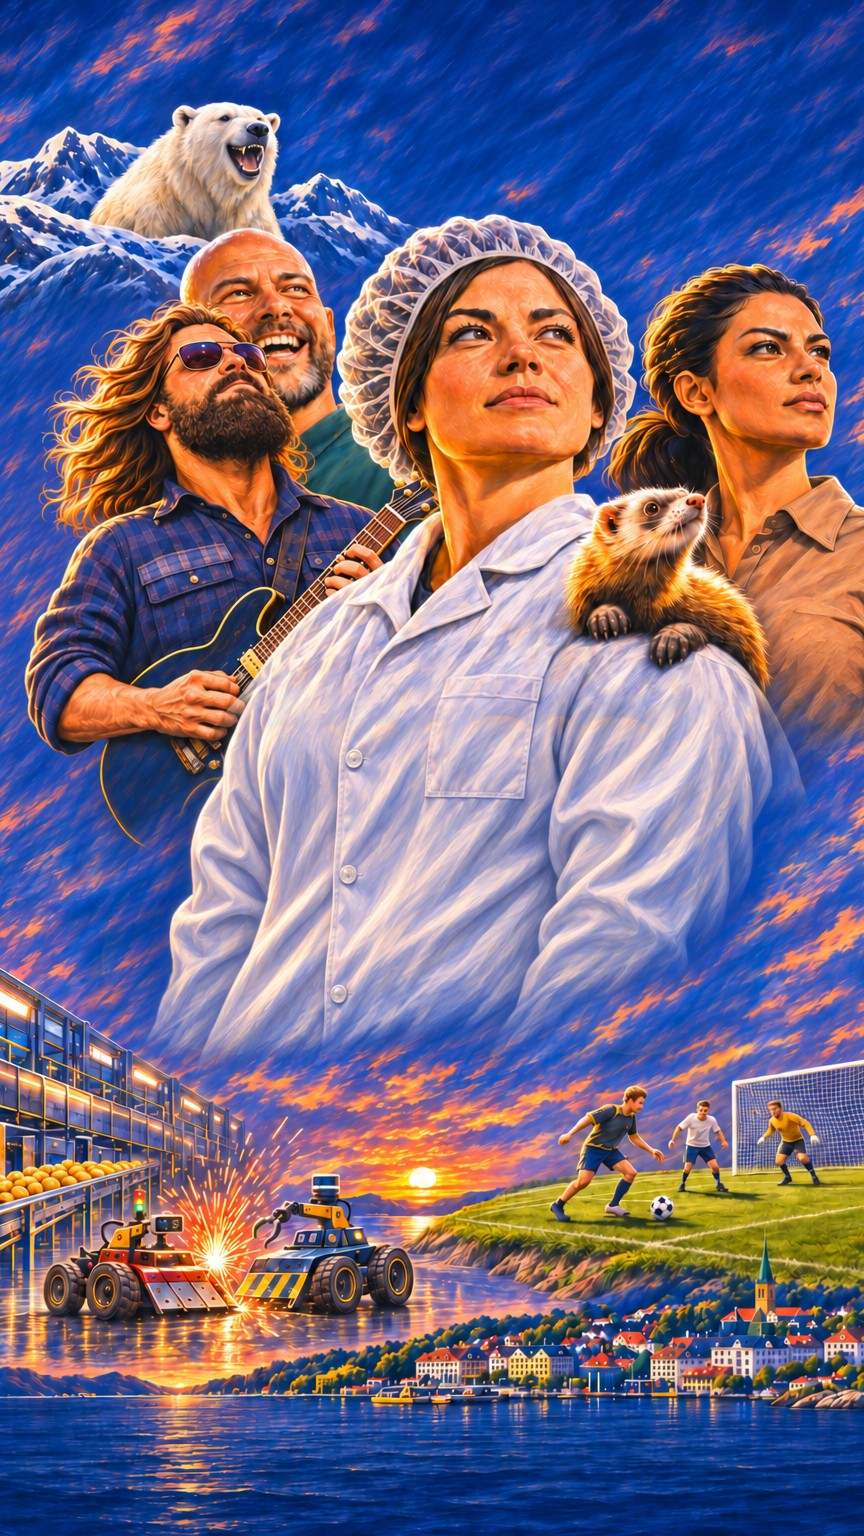
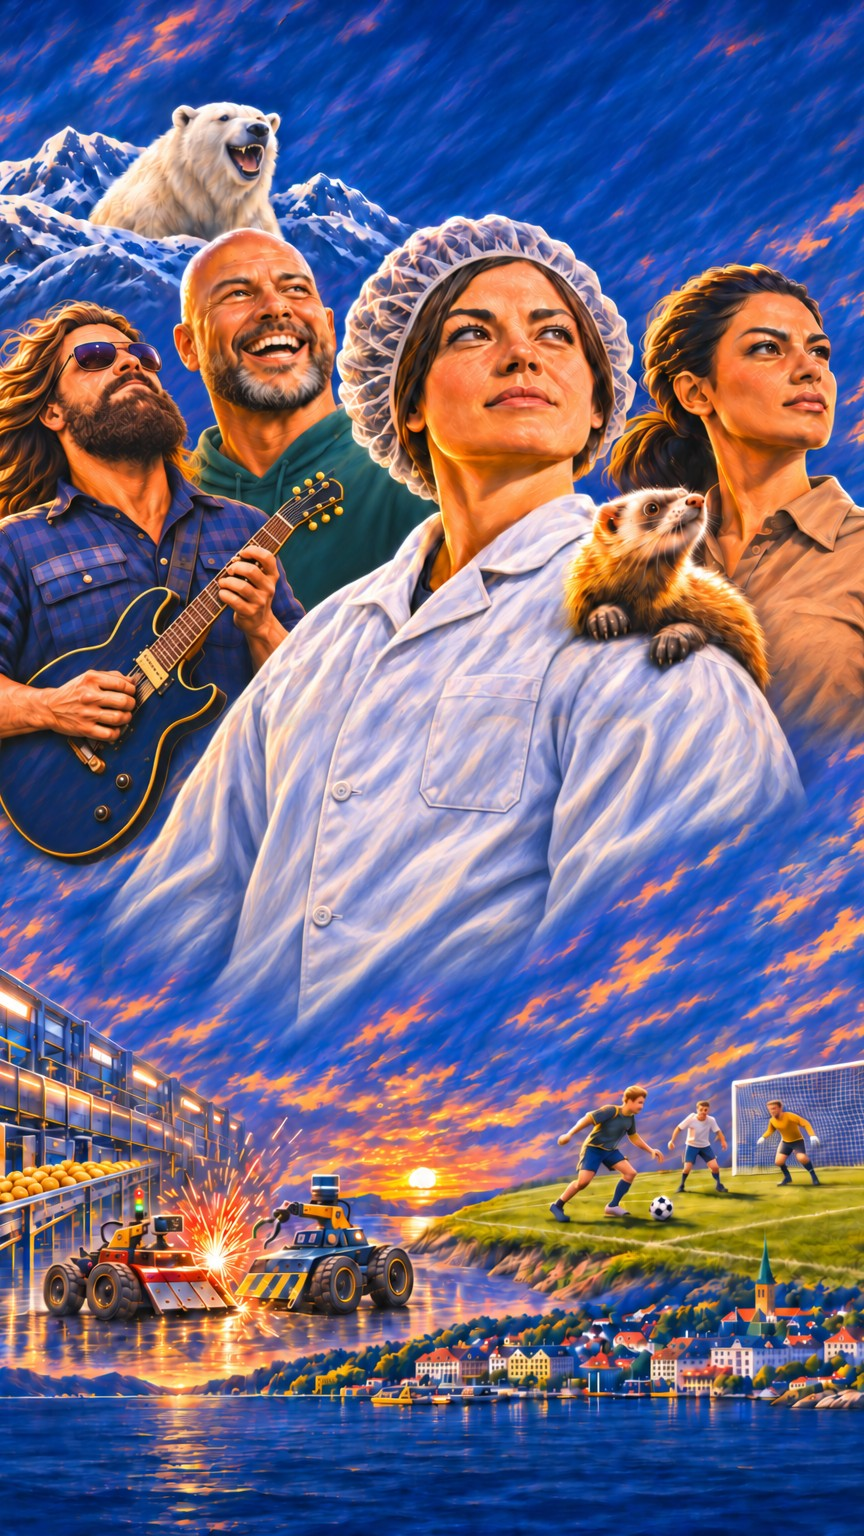
Cover test 9:16: Lars-Owe moved left, 6 tuners

diff --git a/preview/cover-test-9x16/index.html b/preview/cover-test-9x16/index.html
@@ -40,13 +40,13 @@
 </head>
 <body>
 <div class="stage" id="stage">
-  <img class="full" src="layers/base.jpg?v=1" alt="" id="base">
+  <img class="full" src="layers/base.jpg?v=2" alt="" id="base">
   <div class="sky"></div>
   <div class="sun"></div>
   <canvas class="full" id="fx"></canvas>
-  <div class="gull" data-depth="0.6"><img src="layers/gull.png?v=1" alt=""></div>
+  <div class="gull" data-depth="0.6"><img src="layers/gull.png?v=2" alt=""></div>
   <div class="shade"></div>
-  <img class="logo" data-depth="0.3" src="layers/logo.png?v=1" alt="Chip'R Chips">
+  <img class="logo" data-depth="0.3" src="layers/logo.png?v=2" alt="Chip'R Chips">
   <div class="band"><span>Start</span></div>
 </div>
 <div class="note">Testside 9:16 for mobil. Start-knappen viser bare hvor knappene kan stå. Liggende versjon: <a style="color:#f8c010" href="../cover-test/">cover-test</a>.</div>
